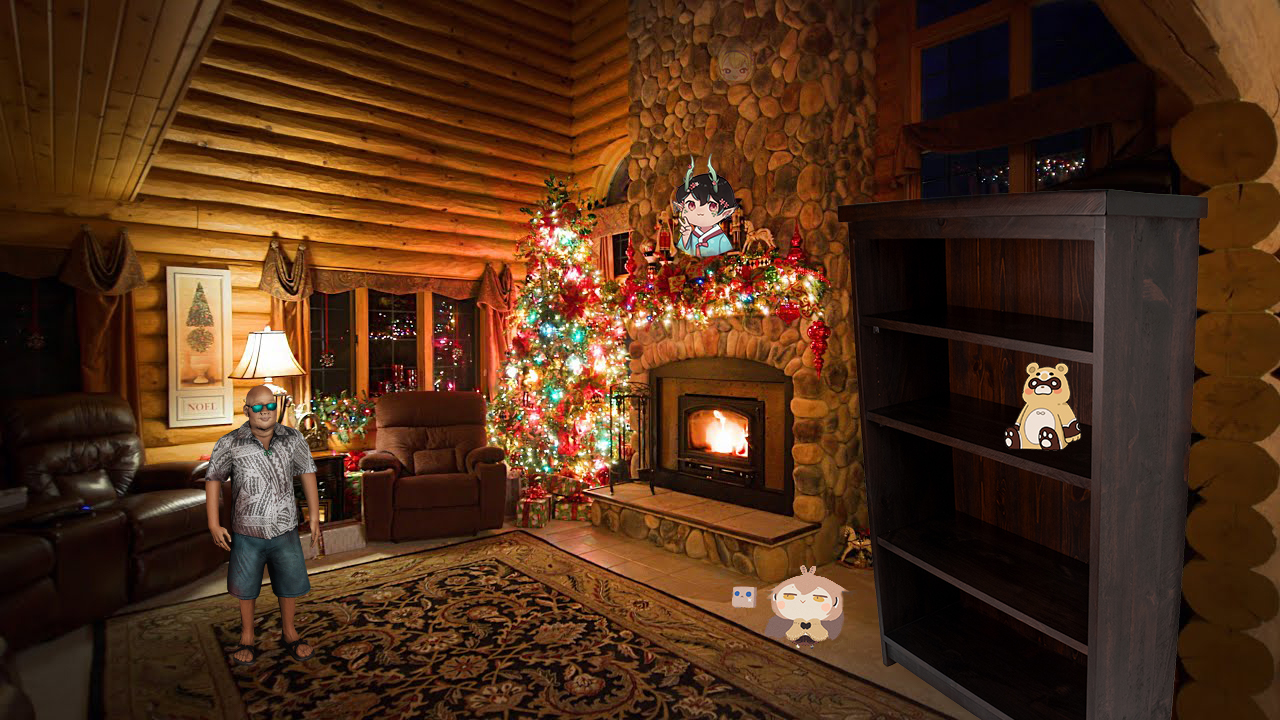
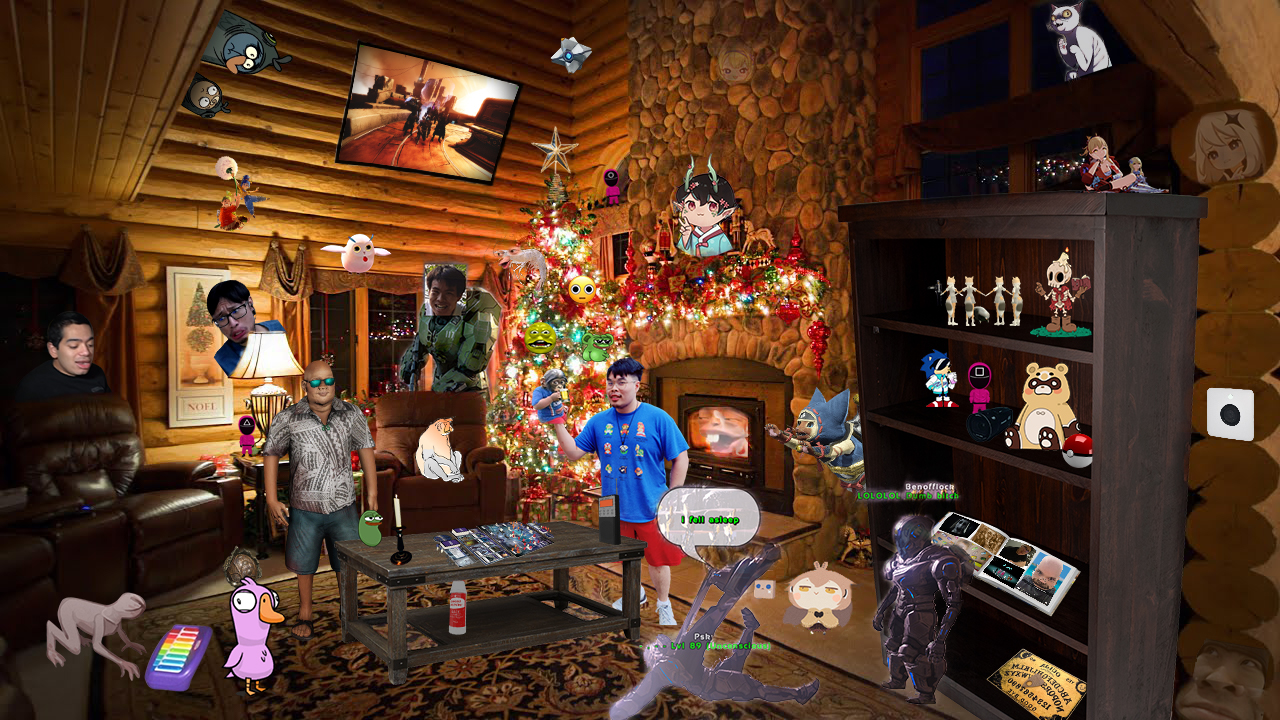
Added new Scene base and main bg, created and styled vtuber components

diff --git a/src/styles/vtuber-styles.css b/src/styles/vtuber-styles.css
@@ -1,0 +1,116 @@
+.vtuber-layout {
+  position: relative;
+  width: 100%;
+  height: 100%;
+}
+
+.vtuber-layout .gura {
+  position: absolute;
+  bottom: 10px;
+  left: 300px;
+
+  height: auto;
+  width: 50px;
+  animation: gura-anim 6s infinite;
+  transition: ease .5s;
+}
+
+.vtuber-layout .brosemi {
+  position: absolute;
+  bottom: 25%;
+  left: 520px;
+  height: auto;
+  width: 80px;
+}
+
+.vtuber-layout .elira {
+  position: absolute;
+  bottom: 26%;
+  right: 460px;
+  
+  height: auto;
+  width: 70px;
+}
+
+.vtuber-layout .finana {
+  position: absolute; 
+  bottom: 30%;
+  left: 90px;
+  height: auto;
+  width: 80px;
+}
+
+.vtuber-layout .millie-lr {
+  position: absolute;
+  top: 19%;
+  right: 400px;
+
+  height: auto;
+  width: 60px;
+  animation: millie-anim 5s infinite;
+  transition: ease .5s;
+}
+
+.vtuber-layout .millie-rl {
+  position: absolute;
+  top: 19%;
+  right: 280px;
+
+  transform: scaleX(-1);
+  height: auto;
+  width: 60px;
+  opacity: 0;
+  animation: millie-anim-2 5s infinite;
+  transition: ease .5s;
+}
+
+/* animations */
+
+@keyframes gura-anim {
+  0% {
+    left: 300px;
+  }
+
+  50% {
+    left: 500px;
+  }
+
+  100% {
+    left: 300px;
+  }
+}
+
+@keyframes millie-anim {
+  0% {
+    right: 400px;
+    opacity: 100;
+    display: initial;
+  }
+
+  50% {
+    right: 280px;
+    opacity: 0;
+  }
+  
+  100% {
+    right: 400px;
+    opacity: 0;
+    display: none;
+  }
+}
+
+@keyframes millie-anim-2 {
+  0% {
+    right: 280px;
+  }
+
+  50% {
+    right: 280px;
+    opacity: 0;
+  }
+  
+  100% {
+    right: 400px;
+    opacity: 100;
+  }
+}

diff --git a/src/components/vtubers/VtuberLayout.js b/src/components/vtubers/VtuberLayout.js
@@ -1,0 +1,22 @@
+import '../../styles/vtuber-styles.css'
+
+import Gura from '../../images/vtuber/gura.gif'
+import Brosemi from '../../images/vtuber/brosemi.png'
+import Elira from '../../images/vtuber/elira.png'
+import Finana from '../../images/vtuber/finana.png'
+import Millie from '../../images/vtuber/millie.png'
+
+function VtuberLayout() {
+  return(
+    <div className="vtuber-layout">
+      <img className='brosemi' src={Brosemi}/>
+      <img className='gura' src={Gura}/>
+      <img className='elira' src={Elira}/>
+      <img className='finana' src={Finana}/>
+      <img className='millie-lr' src={Millie}/>
+      <img className='millie-rl' src={Millie}/>
+    </div>
+  );
+}
+
+export default VtuberLayout;

diff --git a/src/App.css b/src/App.css
@@ -12,7 +12,7 @@ body, #root {
 }
 
 .app-wrapper {
-  background: url(./images/dark-forest.webp);
+  background: url(./images/main-bg.webp);
   background-size: cover;
   background-repeat: no-repeat;
   background-position: center;
@@ -38,7 +38,6 @@ body, #root {
 }
 
 header h1 {
-  
   color: white;
   text-shadow:
       3px 3px 0 #000,
@@ -47,3 +46,5 @@ header h1 {
      -1px 1px 0 #000,
       1px 1px 0 #000;
 }
+
+/* animations */

diff --git a/src/components/SceneBase.js b/src/components/SceneBase.js
@@ -1,6 +1,9 @@
+import VtuberLayout from "./vtubers/VtuberLayout";
+
 function SceneBase() {
   return(
     <div className="scene-base">
+      <VtuberLayout />
     </div>
   );
 }
